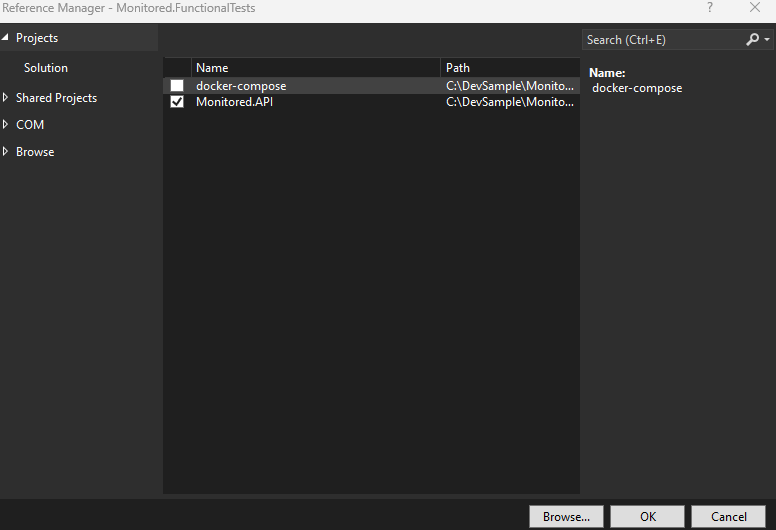
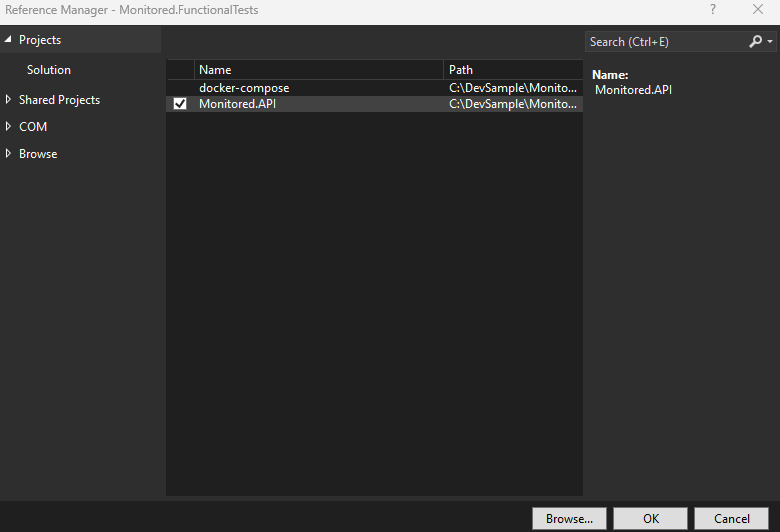
Update article

diff --git a/Blog/Articles/Functional Test a dotnet core Web API.md b/Blog/Articles/Functional Test a dotnet core Web API.md
@@ -84,7 +84,7 @@ The following prerequisites will be required to complete this tutorial:
 
     ![Visual Studio Reference a Web API Project in the Test Project Navigation](https://raw.githubusercontent.com/petergregg/Content/main/Blog/Images/VisualStudio/VisualStudioAddProjectReferenceToProjectNavigation.png)
 
-2. Select the **Web API Project**, and then **OK**.
+2. Tick the **Web API Project**, and then select **OK**.
 
     ![Visual Studio Reference Manager Reference a Web API Project in the Test Project](https://raw.githubusercontent.com/petergregg/Content/main/Blog/Images/VisualStudio/VisualStudioReferenceManagerAddProjectReferenceToProject.png)
 
